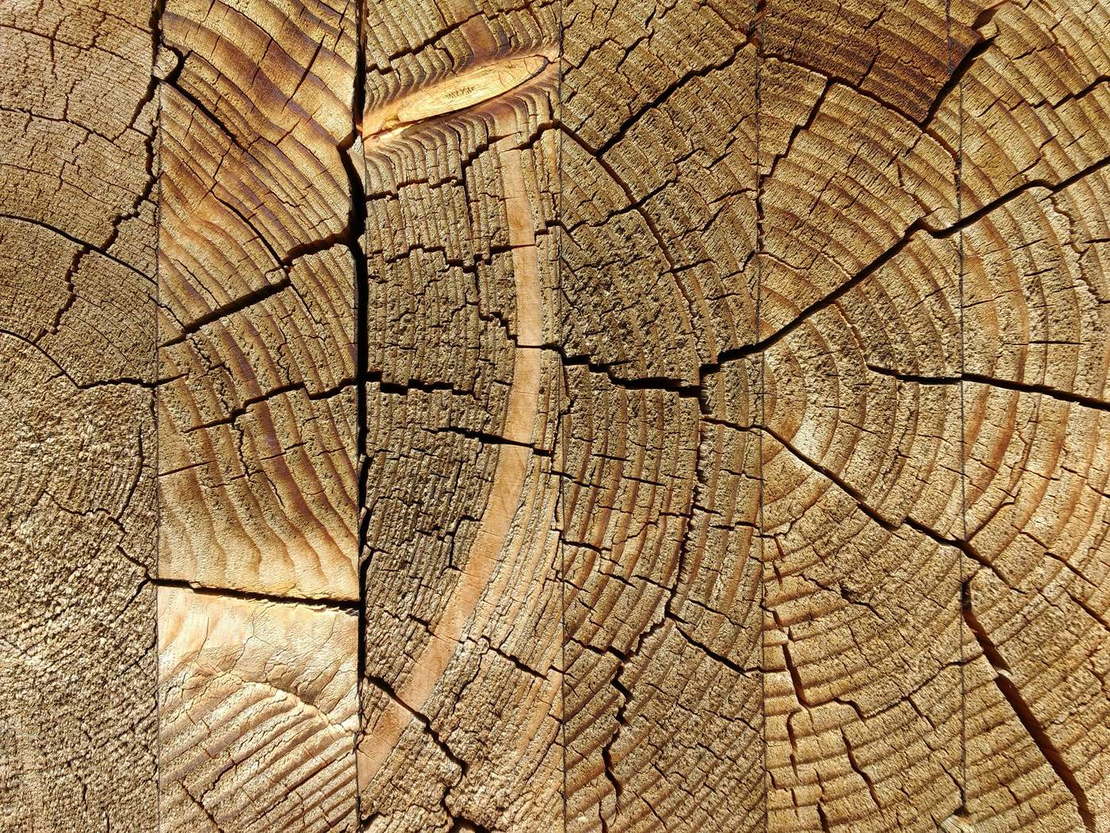
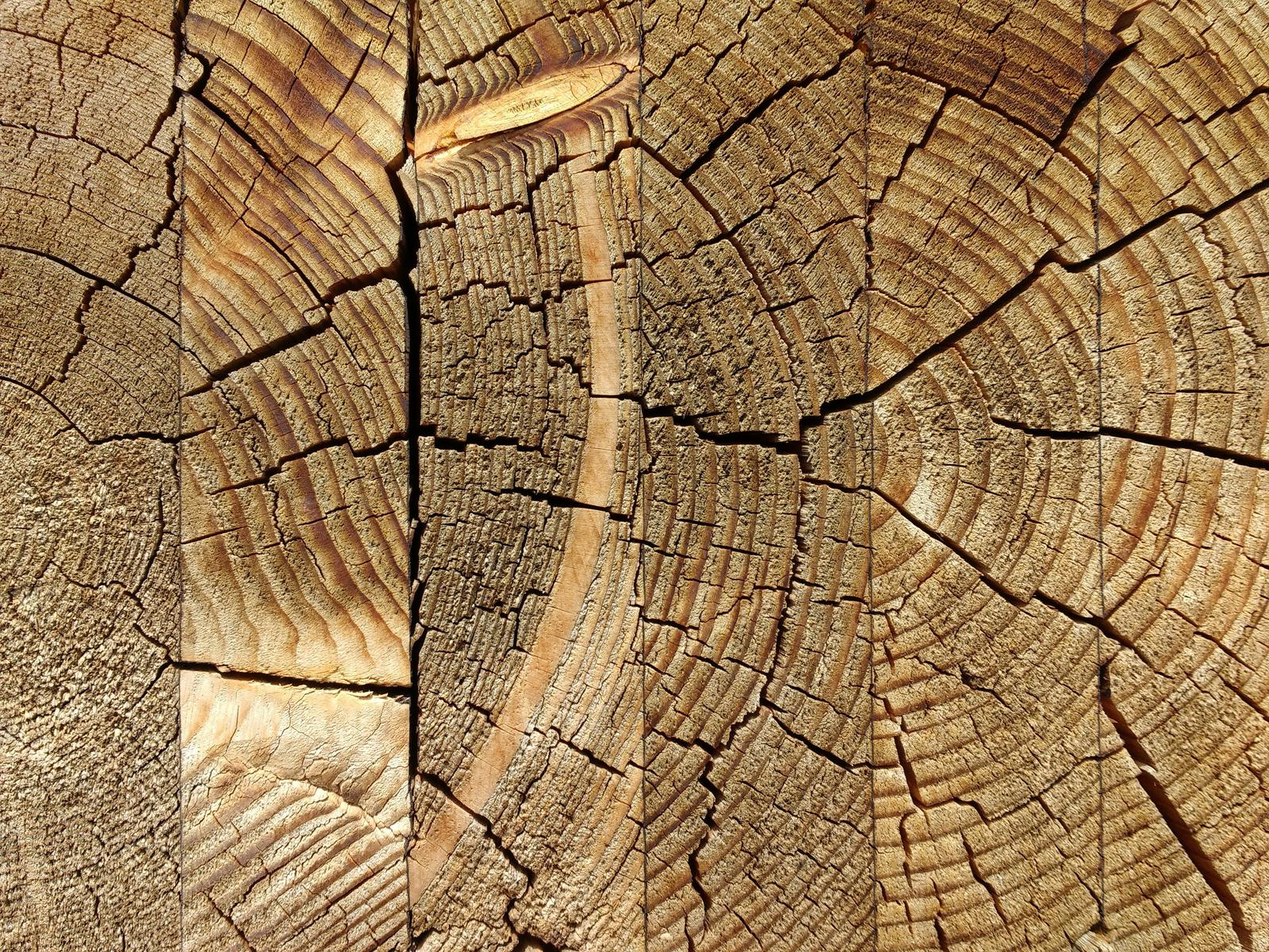
Fotos wieder weg, Holztisch scharf, Reiter fahren aus statt zu rutschen
Die Erinnerungsfotos rund um das Buch sind wieder entfernt.

Die Holzplatte kommt jetzt in 1920 px als WebP (983 KB), mit einem JPEG
von 1600 px als Rueckfall fuer alte Browser. Vorher waren es 1400 px bei
starker Kompression - daher die weiche Darstellung.

Das ausgewaehlte Kapitel oben wird nicht mehr nach unten verschoben,
sondern waechst nach unten: oben bleibt es an der Leistenkante, die
Luecke ist weg.

diff --git a/assets/css/style.css b/assets/css/style.css
@@ -129,9 +129,9 @@ p{margin:0 0 1.15em}
   margin-top:-12px;padding:18px 15px 10px;
   font-weight:600;letter-spacing:.09em;
   box-shadow:0 3px 8px rgba(0,0,0,.18);
-  transition:transform .25s var(--ease),filter .25s
+  transition:padding-bottom .25s var(--ease),filter .25s
 }
-.nav__links a:hover{color:#fdf6e6;background:var(--ink);transform:translateY(3px);filter:brightness(1.12)}
+.nav__links a:hover{color:#fdf6e6;background:var(--ink);padding-bottom:16px;filter:brightness(1.12)}
 .nav__links a:nth-child(2){background:linear-gradient(180deg,#e0254a,#b3122f)}
 .nav__links a:nth-child(3){background:linear-gradient(180deg,#2a62b8,#164384)}
 .nav__links a:nth-child(4){background:linear-gradient(180deg,#c9a961,#9a7d3c)}
@@ -140,7 +140,9 @@ p{margin:0 0 1.15em}
 .nav__links a:nth-child(7){background:linear-gradient(180deg,#3a3630,#22201c)}
 .nav__links a.is-active,
 .nav__links a.is-active:hover{
-  color:#fff;transform:translateY(7px);
+  /* Ausgezogen, nicht verschoben: der Reiter waechst nach unten, oben
+     bleibt er an der Kante - sonst klafft dort eine Luecke. */
+  color:#fff;padding-bottom:22px;
   box-shadow:0 5px 12px rgba(0,0,0,.25)
 }
 /* Die herausgezogenen Reiter duerfen unten aus der Leiste ragen */
@@ -229,7 +231,9 @@ p{margin:0 0 1.15em}
    und steht still: kein Kacheln, kein Mitscrollen. */
 .buch__holz{
   position:absolute;inset:0;z-index:0;
-  background:url("../img/holz-hintergrund.jpg") no-repeat center center/cover #6b5233;
+  background:image-set(url("../img/holz-hintergrund.webp") type("image/webp"),
+                       url("../img/holz-hintergrund.jpg") type("image/jpeg"))
+             no-repeat center center/cover #6b5233;
   /* Beim Zoomen fährt die Kamera vor. Das Holz liegt am weitesten weg
      und wächst darum langsamer als das Buch - erst dieser Unterschied
      lässt es aussehen, als führe man hinein, statt dass einem das Buch
@@ -262,39 +266,6 @@ p{margin:0 0 1.15em}
      statt der linken Buchhälfte, das Buch war also nicht mehr ganz. */
   opacity:clamp(0,calc((1 - var(--z)) * 9),1)
 }
-
-/* Erinnerungsfotos auf dem Holz -------------------------------------
-   Sie liegen im Kreis um das Buch herum, am Rand der Buehne, und
-   verschwinden mit einer Ecke darunter. Sie gehoeren zum Holz und
-   machen darum dieselbe, langsamere Kamerafahrt mit. */
-.buch__fotos{
-  position:absolute;inset:0;z-index:0;pointer-events:none;
-  transform:scale(calc(1 + var(--z) * (var(--zoomfaktor,3) - 1) * .62));
-  transform-origin:center center;
-  opacity:clamp(0,calc((1 - var(--z)) * 3),1)
-}
-.erinnerung{
-  position:absolute;display:block;
-  /* Hoehe gibt den Takt vor, damit die Reihe trotz verschiedener
-     Bildformate gleichmaessig liegt. */
-  height:clamp(76px,12vh,122px);width:auto;max-width:17vw;
-  border-radius:3px;
-  box-shadow:0 10px 20px -6px rgba(0,0,0,.6),0 2px 4px rgba(0,0,0,.4);
-  translate:-50% -50%
-}
-/* Oben und unten ist neben dem Buch kaum Platz, links und rechts
-   dagegen viel: darum zwei Reihen, jede Reihe reicht mit der inneren
-   Kante unter das Buch. */
-.erinnerung--1{left:11%;top:12%;rotate:-7deg}
-.erinnerung--2{left:9%;top:31%;rotate:5deg}
-.erinnerung--3{left:11.5%;top:50%;rotate:-4deg}
-.erinnerung--4{left:9%;top:69%;rotate:6deg}
-.erinnerung--5{left:11%;top:85%;rotate:-3deg}
-.erinnerung--6{left:89%;top:12%;rotate:5deg}
-.erinnerung--7{left:91%;top:31%;rotate:-6deg}
-.erinnerung--8{left:88.5%;top:50%;rotate:4deg}
-.erinnerung--9{left:91%;top:69%;rotate:-5deg}
-.erinnerung--10{left:89%;top:85%;rotate:3deg}
 
 /* Das Buch selbst: ein Gegenstand mit Rand ringsum */
 .buch__objekt{
@@ -661,16 +632,6 @@ p{margin:0 0 1.15em}
 @media(max-width:760px){
   .buch--aktiv{height:520svh}
   .buch__objekt,.buch__schatten,.buch__seite2{height:86%;aspect-ratio:.82;max-width:90vw}
-  /* Seitlich bleibt kein Platz: die Fotos liegen oben und unten,
-     die uebrigen wuerden nur unter dem Buch verschwinden. */
-  .erinnerung{height:clamp(54px,7.5vh,76px);max-width:40vw}
-  .erinnerung--1{left:16%;top:6%;rotate:-8deg}
-  .erinnerung--2{left:50%;top:4.5%;rotate:5deg}
-  .erinnerung--3{left:84%;top:6%;rotate:-6deg}
-  .erinnerung--4{left:16%;top:94%;rotate:7deg}
-  .erinnerung--5{left:50%;top:95.5%;rotate:-4deg}
-  .erinnerung--6{left:84%;top:94%;rotate:6deg}
-  .erinnerung--7,.erinnerung--8,.erinnerung--9,.erinnerung--10{display:none}
   .buch__reiter{height:86%;aspect-ratio:.82;max-width:90vw}
   .buch__lesezeichen{left:3px;right:3px;gap:2px;margin-bottom:-20px}
   .lz{padding:5px 3px 24px;font-size:.52rem;letter-spacing:.01em}
@@ -906,8 +867,8 @@ a.person:hover{transform:translateY(-4px)}
      der Leiste - sie stehen einfach da, das Ausgewaehlte etwas tiefer. */
   .nav__links{order:3;width:100%;margin-left:0;padding-top:2px;overflow-x:auto}
   .nav__links a{margin-top:0;padding:9px 13px;border-radius:6px}
-  .nav__links a.is-active,.nav__links a.is-active:hover{transform:translateY(4px)}
-  .nav__links a:hover{transform:translateY(2px)}
+  .nav__links a.is-active,.nav__links a.is-active:hover{padding-bottom:16px}
+  .nav__links a:hover{padding-bottom:12px}
   .nav__actions{margin-left:auto}
   .drawer{inset:114px 0 0}
 }

diff --git a/index.html b/index.html
@@ -12,7 +12,7 @@
 <meta property="og:image" content="assets/img/Start2.jpg">
 <meta property="og:type" content="website">
 <link rel="stylesheet" href="assets/fonts/fonts.css">
-<link rel="stylesheet" href="assets/css/style.css?v=d5efd89e">
+<link rel="stylesheet" href="assets/css/style.css?v=4306508b">
 </head>
 <body class="startseite">
 <a class="skip" href="#main">Zum Inhalt springen</a>
@@ -63,19 +63,6 @@
     <div class="buch__buehne">
       <!-- Die Holzplatte, auf der das Buch liegt -->
       <div class="buch__holz" aria-hidden="true"></div>
-
-      <div class="buch__fotos" aria-hidden="true">
-        <img class="erinnerung erinnerung--1" src="assets/img/fotos/foto-1.jpg" alt="" width="253" height="181" decoding="async">
-        <img class="erinnerung erinnerung--2" src="assets/img/fotos/foto-2.jpg" alt="" width="360" height="219" decoding="async">
-        <img class="erinnerung erinnerung--3" src="assets/img/fotos/foto-3.jpg" alt="" width="316" height="222" decoding="async">
-        <img class="erinnerung erinnerung--4" src="assets/img/fotos/foto-4.jpg" alt="" width="280" height="323" decoding="async">
-        <img class="erinnerung erinnerung--5" src="assets/img/fotos/foto-5.jpg" alt="" width="134" height="211" decoding="async">
-        <img class="erinnerung erinnerung--6" src="assets/img/fotos/foto-6.jpg" alt="" width="138" height="175" decoding="async">
-        <img class="erinnerung erinnerung--7" src="assets/img/fotos/foto-7.jpg" alt="" width="167" height="197" decoding="async">
-        <img class="erinnerung erinnerung--8" src="assets/img/fotos/foto-8.jpg" alt="" width="120" height="159" decoding="async">
-        <img class="erinnerung erinnerung--9" src="assets/img/fotos/foto-9.jpg" alt="" width="134" height="173" decoding="async">
-        <img class="erinnerung erinnerung--10" src="assets/img/fotos/foto-10.jpg" alt="" width="126" height="115" decoding="async">
-      </div>
 
       <!-- Die Lesezeichen stecken zwischen Holz und Buch: sie liegen
            hinter der Seite, schauen oben heraus und sind darum nicht

diff --git a/404.html b/404.html
@@ -12,7 +12,7 @@
 <meta property="og:image" content="assets/img/Start2.jpg">
 <meta property="og:type" content="website">
 <link rel="stylesheet" href="assets/fonts/fonts.css">
-<link rel="stylesheet" href="assets/css/style.css?v=d5efd89e">
+<link rel="stylesheet" href="assets/css/style.css?v=4306508b">
 </head>
 <body>
 <a class="skip" href="#main">Zum Inhalt springen</a>

diff --git a/agenda.html b/agenda.html
@@ -12,7 +12,7 @@
 <meta property="og:image" content="assets/img/Start2.jpg">
 <meta property="og:type" content="website">
 <link rel="stylesheet" href="assets/fonts/fonts.css">
-<link rel="stylesheet" href="assets/css/style.css?v=d5efd89e">
+<link rel="stylesheet" href="assets/css/style.css?v=4306508b">
 </head>
 <body>
 <a class="skip" href="#main">Zum Inhalt springen</a>

diff --git a/datenschutz.html b/datenschutz.html
@@ -12,7 +12,7 @@
 <meta property="og:image" content="assets/img/Start2.jpg">
 <meta property="og:type" content="website">
 <link rel="stylesheet" href="assets/fonts/fonts.css">
-<link rel="stylesheet" href="assets/css/style.css?v=d5efd89e">
+<link rel="stylesheet" href="assets/css/style.css?v=4306508b">
 </head>
 <body>
 <a class="skip" href="#main">Zum Inhalt springen</a>

diff --git a/impressum.html b/impressum.html
@@ -12,7 +12,7 @@
 <meta property="og:image" content="assets/img/Start2.jpg">
 <meta property="og:type" content="website">
 <link rel="stylesheet" href="assets/fonts/fonts.css">
-<link rel="stylesheet" href="assets/css/style.css?v=d5efd89e">
+<link rel="stylesheet" href="assets/css/style.css?v=4306508b">
 </head>
 <body>
 <a class="skip" href="#main">Zum Inhalt springen</a>

diff --git a/jungschar.html b/jungschar.html
@@ -12,7 +12,7 @@
 <meta property="og:image" content="assets/img/Start2.jpg">
 <meta property="og:type" content="website">
 <link rel="stylesheet" href="assets/fonts/fonts.css">
-<link rel="stylesheet" href="assets/css/style.css?v=d5efd89e">
+<link rel="stylesheet" href="assets/css/style.css?v=4306508b">
 </head>
 <body>
 <a class="skip" href="#main">Zum Inhalt springen</a>

diff --git a/kontakt.html b/kontakt.html
@@ -12,7 +12,7 @@
 <meta property="og:image" content="assets/img/Start2.jpg">
 <meta property="og:type" content="website">
 <link rel="stylesheet" href="assets/fonts/fonts.css">
-<link rel="stylesheet" href="assets/css/style.css?v=d5efd89e">
+<link rel="stylesheet" href="assets/css/style.css?v=4306508b">
 </head>
 <body>
 <a class="skip" href="#main">Zum Inhalt springen</a>

diff --git a/laedeli.html b/laedeli.html
@@ -12,7 +12,7 @@
 <meta property="og:image" content="assets/img/Start2.jpg">
 <meta property="og:type" content="website">
 <link rel="stylesheet" href="assets/fonts/fonts.css">
-<link rel="stylesheet" href="assets/css/style.css?v=d5efd89e">
+<link rel="stylesheet" href="assets/css/style.css?v=4306508b">
 </head>
 <body>
 <a class="skip" href="#main">Zum Inhalt springen</a>

diff --git a/lager.html b/lager.html
@@ -12,7 +12,7 @@
 <meta property="og:image" content="assets/img/Start2.jpg">
 <meta property="og:type" content="website">
 <link rel="stylesheet" href="assets/fonts/fonts.css">
-<link rel="stylesheet" href="assets/css/style.css?v=d5efd89e">
+<link rel="stylesheet" href="assets/css/style.css?v=4306508b">
 </head>
 <body>
 <a class="skip" href="#main">Zum Inhalt springen</a>

diff --git a/links.html b/links.html
@@ -12,7 +12,7 @@
 <meta property="og:image" content="assets/img/Start2.jpg">
 <meta property="og:type" content="website">
 <link rel="stylesheet" href="assets/fonts/fonts.css">
-<link rel="stylesheet" href="assets/css/style.css?v=d5efd89e">
+<link rel="stylesheet" href="assets/css/style.css?v=4306508b">
 </head>
 <body>
 <a class="skip" href="#main">Zum Inhalt springen</a>

diff --git a/organisation.html b/organisation.html
@@ -12,7 +12,7 @@
 <meta property="og:image" content="assets/img/Start2.jpg">
 <meta property="og:type" content="website">
 <link rel="stylesheet" href="assets/fonts/fonts.css">
-<link rel="stylesheet" href="assets/css/style.css?v=d5efd89e">
+<link rel="stylesheet" href="assets/css/style.css?v=4306508b">
 </head>
 <body>
 <a class="skip" href="#main">Zum Inhalt springen</a>
